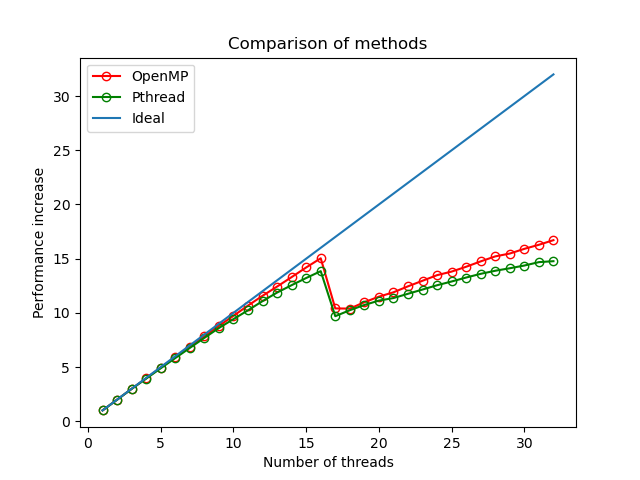
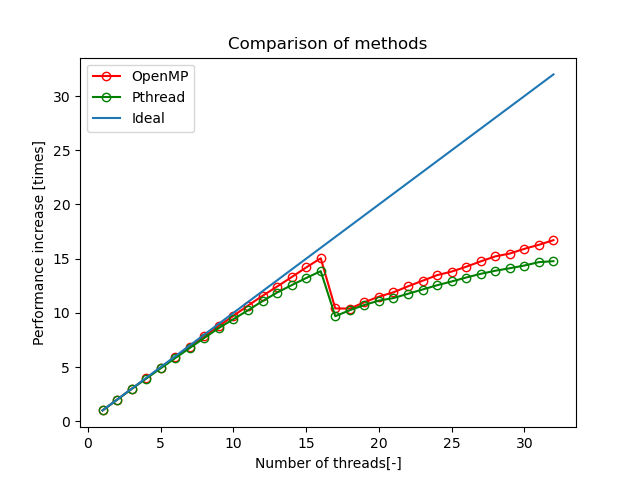
A4, plotfix

Changed region(s): [[0.0312, 0.3125, 0.0938, 0.7188], [0.4062, 0.9375, 0.625, 1.0]]

diff --git a/A4/plotting.py b/A4/plotting.py
@@ -13,7 +13,7 @@ plt.plot(threads,s, "ro-", markerfacecolor='none')
 plt.plot(threads,s2, "go-",markerfacecolor='none')
 plt.plot(threads, threads)
 plt.legend(["OpenMP", "Pthread", "Ideal"])
-plt.xlabel("Number of threads")
-plt.ylabel("Performance increase")
+plt.xlabel("Number of threads[-]")
+plt.ylabel("Performance increase [times]")
 plt.title("Comparison of methods")
 plt.savefig("Comparison of methods.png")
